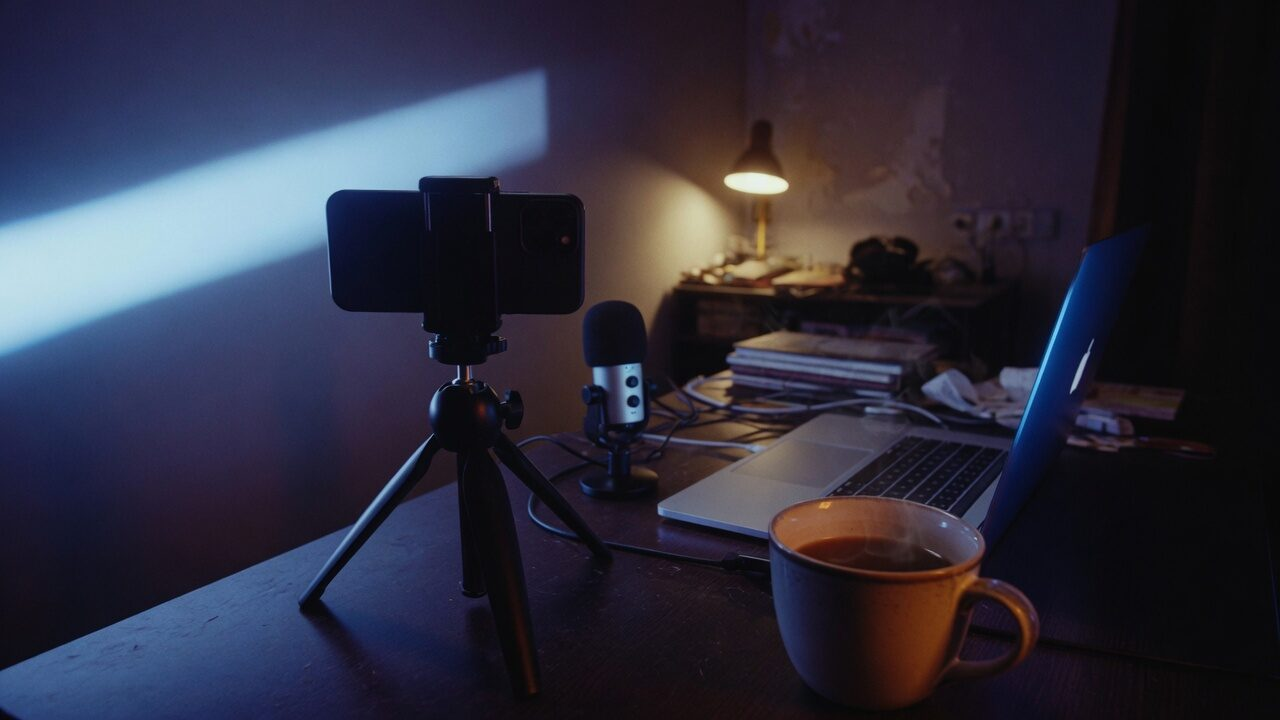
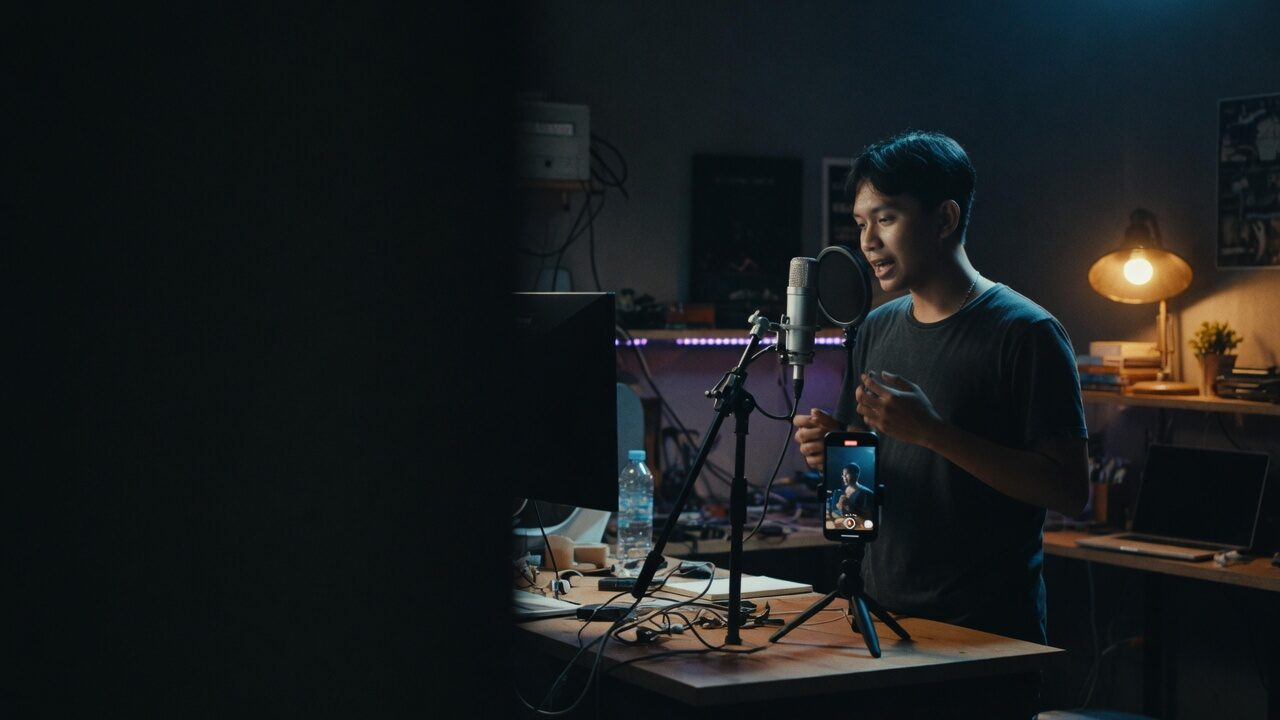
Light theme default with dark toggle; creator hero photo; stacked hero on phones

diff --git a/style.css b/style.css
@@ -1,19 +1,41 @@
 :root {
+  --bg: #fbfbfa;
+  --bg-rgb: 251, 251, 250;
+  --surface: #f0f0ee;
+  --line: #e2e2de;
+  --line-strong: #b8b8b3;
+  --ink: #1a1a1c;
+  --body: #3b3b3e;
+  --muted: #6b6b68;
+  --accent: #6fb6e2;
+  --accent-hover: #5aaadb;
+  --accent-ink: #0f1a22;
+  --accent-text: #2a72a8;
+  --plate-rgb: 19, 19, 21;
+  --radius: 6px;
+  --display: "Barlow Condensed", "Arial Narrow", "Helvetica Neue", Arial, sans-serif;
+  --text: system-ui, -apple-system, "Segoe UI", Roboto, "Helvetica Neue", Arial, sans-serif;
+  --ease-out: cubic-bezier(0.23, 1, 0.32, 1);
+  color-scheme: light;
+}
+:root[data-theme="dark"] {
   --bg: #131315;
+  --bg-rgb: 19, 19, 21;
   --surface: #1b1b1e;
   --line: #2c2c2e;
   --line-strong: #4a4a4e;
   --ink: #f2f2f0;
   --body: #d6d6d3;
   --muted: #9d9d99;
-  --accent: #6fb6e2;
   --accent-hover: #8cc5e9;
-  --accent-ink: #0f1a22;
-  --radius: 6px;
-  --display: "Barlow Condensed", "Arial Narrow", "Helvetica Neue", Arial, sans-serif;
-  --text: system-ui, -apple-system, "Segoe UI", Roboto, "Helvetica Neue", Arial, sans-serif;
-  --ease-out: cubic-bezier(0.23, 1, 0.32, 1);
+  --accent-text: #6fb6e2;
   color-scheme: dark;
+}
+/* photo plates stay dark in both themes */
+.hero, .banner {
+  --ink: #f2f2f0; --body: #d6d6d3; --muted: #a9a9a5; --line-strong: #6b6b6f;
+  background: rgb(var(--plate-rgb));
+  color: var(--ink);
 }
 
 * { box-sizing: border-box; }
@@ -26,7 +48,7 @@ body {
   font: 17px/1.55 var(--text);
 }
 img { max-width: 100%; display: block; }
-a { color: var(--accent); }
+a { color: var(--accent-text); }
 :focus-visible { outline: 2px solid var(--accent); outline-offset: 3px; }
 h1, h2 { font-family: var(--display); font-weight: 700; text-transform: uppercase; letter-spacing: 0; }
 h3 { font-size: 1.15rem; font-weight: 600; margin: 0 0 0.5rem; }
@@ -37,7 +59,7 @@ p { margin: 0 0 1rem; }
 /* nav */
 .nav {
   position: sticky; top: 0; z-index: 10;
-  background: rgba(19, 19, 21, 0.82);
+  background: rgba(var(--bg-rgb), 0.82);
   backdrop-filter: blur(14px) saturate(140%);
   -webkit-backdrop-filter: blur(14px) saturate(140%);
   border-bottom: 1px solid var(--line);
@@ -51,7 +73,9 @@ p { margin: 0 0 1rem; }
 .nav ul { display: flex; gap: 1.5rem; list-style: none; margin: 0; padding: 0; }
 .nav nav a { display: inline-block; padding: 0.75rem 0; color: var(--muted); text-decoration: none; font-size: 0.95rem; }
 .nav nav a[aria-current="page"] { color: var(--ink); }
-@media (hover: hover) and (pointer: fine) { .nav nav a:hover { color: var(--ink); } }
+.tema { background: none; border: 0; padding: 0.75rem 0; margin: 0; font: inherit; font-size: 0.95rem; color: var(--muted); cursor: pointer; }
+@media (hover: hover) and (pointer: fine) { .nav nav a:hover, .tema:hover { color: var(--ink); } }
+@media (max-width: 480px) { .brand { font-size: 1.25rem; } .nav ul { gap: 1rem; } .nav nav a, .tema { font-size: 0.9rem; } }
 
 /* buttons */
 .btn {
@@ -74,7 +98,7 @@ p { margin: 0 0 1rem; }
 .hero > img { position: absolute; inset: 0; width: 100%; height: 100%; object-fit: cover; object-position: center; }
 .hero::after {
   content: ""; position: absolute; inset: 0;
-  background: linear-gradient(to top, rgba(19,19,21,0.97) 0%, rgba(19,19,21,0.72) 40%, rgba(19,19,21,0.2) 100%);
+  background: linear-gradient(to top, rgba(var(--plate-rgb),0.97) 0%, rgba(var(--plate-rgb),0.72) 40%, rgba(var(--plate-rgb),0.2) 100%);
 }
 .hero .wrap { position: relative; z-index: 1; width: 100%; padding-top: 5rem; padding-bottom: 3.5rem; }
 .hero .strip { color: var(--muted); font-size: 0.95rem; margin: 0 0 1rem; }
@@ -84,7 +108,17 @@ p { margin: 0 0 1rem; }
 }
 .hero .sub { font-size: 1.15rem; color: var(--body); max-width: 36rem; margin: 0 0 1.75rem; }
 .cta { display: flex; flex-wrap: wrap; gap: 0.75rem; margin: 0; }
-@media (max-width: 700px) { .hero h1 br { display: none; } .hero { min-height: min(78vh, 640px); min-height: min(78dvh, 640px); } }
+@media (max-width: 700px) {
+  /* phones: photo above the text so the person is never under the headline */
+  .hero { display: block; min-height: 0; }
+  .hero > img { position: static; width: 100%; height: auto; aspect-ratio: 3 / 2; object-position: 70% 30%; }
+  .hero::after { display: none; }
+  .hero .wrap { padding-top: 1.75rem; padding-bottom: 2.5rem; }
+  .hero .strip { margin-bottom: 0.75rem; }
+  .hero h1 { font-size: 2.5rem; }
+  .hero h1 br { display: none; }
+  .hero .sub { font-size: 1.05rem; margin-bottom: 1.25rem; }
+}
 
 /* sections */
 main > section { padding: 4rem 0; border-top: 1px solid var(--line); }
@@ -104,7 +138,7 @@ main > section h2 { font-size: clamp(2rem, 4vw, 2.75rem); line-height: 1; margin
 .kartu h3 { margin: 0.9rem 0 0.2rem; line-height: 1.25; }
 .kartu p { margin: 0; color: var(--muted); font-size: 0.9rem; }
 .kartu [data-status]:not(:empty)::before { content: "· "; }
-.kartu [data-status] { color: var(--accent); }
+.kartu [data-status] { color: var(--accent-text); }
 @media (max-width: 900px) {
   .katalog { grid-template-columns: repeat(2, 1fr); gap: 1.5rem 0.75rem; }
   .kartu h3 { font-size: 1rem; margin-top: 0.6rem; }
@@ -147,7 +181,7 @@ footer a:last-child { margin-right: 0; }
 .daftar .img { display: block; aspect-ratio: 3 / 4; border-radius: var(--radius); overflow: hidden; background: var(--surface); }
 .daftar .img img { width: 100%; height: 100%; object-fit: cover; }
 .daftar .meta { color: var(--muted); font-size: 0.9rem; margin: 0 0 0.35rem; }
-.daftar .status { color: var(--accent); }
+.daftar .status { color: var(--accent-text); }
 .daftar .status:not(:empty)::before { content: "· "; }
 .daftar h2 { font-size: 1.85rem; line-height: 1; margin: 0 0 0.6rem; }
 .daftar h2 a { color: var(--ink); text-decoration: none; }
@@ -163,7 +197,7 @@ footer a:last-child { margin-right: 0; }
 .banner > img { position: absolute; inset: 0; width: 100%; height: 100%; object-fit: cover; object-position: center 45%; }
 .banner::after {
   content: ""; position: absolute; inset: 0;
-  background: linear-gradient(to top, rgba(19,19,21,1) 0%, rgba(19,19,21,0.7) 45%, rgba(19,19,21,0.25) 100%);
+  background: linear-gradient(to top, rgba(var(--plate-rgb),1) 0%, rgba(var(--plate-rgb),0.7) 45%, rgba(var(--plate-rgb),0.25) 100%);
 }
 .banner .wrap { position: relative; z-index: 1; width: 100%; padding-top: 5rem; padding-bottom: 2.5rem; }
 .crumb { color: var(--muted); font-size: 0.95rem; margin: 0 0 0.75rem; }
@@ -215,7 +249,7 @@ footer a:last-child { margin-right: 0; }
   .banner > img { left: auto; right: 0; width: 62%; object-position: center 40%; }
   .banner::after {
     background:
-      linear-gradient(to right, rgba(19,19,21,1) 30%, rgba(19,19,21,0.4) 60%, rgba(19,19,21,0.1) 100%),
-      linear-gradient(to top, rgba(19,19,21,1) 0%, rgba(19,19,21,0.55) 35%, rgba(19,19,21,0) 100%);
+      linear-gradient(to right, rgba(var(--plate-rgb),1) 30%, rgba(var(--plate-rgb),0.4) 60%, rgba(var(--plate-rgb),0.1) 100%),
+      linear-gradient(to top, rgba(var(--plate-rgb),1) 0%, rgba(var(--plate-rgb),0.55) 35%, rgba(var(--plate-rgb),0) 100%);
   }
 }

diff --git a/modul/1.html b/modul/1.html
@@ -5,7 +5,8 @@
 <meta name="viewport" content="width=device-width, initial-scale=1, viewport-fit=cover">
 <title>Modul 1: Kenali audiens sebelum bikin konten, Kelas Kreator</title>
 <meta name="description" content="Konten yang bagus untuk semua orang biasanya tidak dibutuhkan siapa pun. Modul ini membantumu menjawab satu pertanyaan: siapa yang sebenarnya menonton, dan kenapa.">
-<meta name="theme-color" content="#131315">
+<meta name="theme-color" content="#fbfbfa">
+<script>try{if(localStorage.getItem("kelas-kreator-tema")==="gelap"){document.documentElement.setAttribute("data-theme","dark");document.querySelector('meta[name="theme-color"]').content="#131315"}}catch(e){}</script>
 <link rel="canonical" href="https://wolfurx.github.io/kelas-kreator/modul/1.html">
 <meta property="og:type" content="website">
 <meta property="og:site_name" content="Kelas Kreator">
@@ -30,6 +31,7 @@
 <nav aria-label="Utama"><ul>
 <li><a href="../kurikulum.html" aria-current="page">Kurikulum</a></li>
 <li><a href="../index.html#tentang">Tentang</a></li>
+<li><button type="button" class="tema" data-tema aria-pressed="false" aria-label="Ganti ke mode gelap">Gelap</button></li>
 </ul></nav>
 </div>
 </header>

diff --git a/modul/5.html b/modul/5.html
@@ -5,7 +5,8 @@
 <meta name="viewport" content="width=device-width, initial-scale=1, viewport-fit=cover">
 <title>Modul 5: Membaca data, bukan sekadar angka, Kelas Kreator</title>
 <meta name="description" content="Angka tidak bercerita sendiri. Modul ini melatihmu bertanya pada data dengan pertanyaan yang tepat, supaya keputusan berikutnya lebih baik dari tebakan.">
-<meta name="theme-color" content="#131315">
+<meta name="theme-color" content="#fbfbfa">
+<script>try{if(localStorage.getItem("kelas-kreator-tema")==="gelap"){document.documentElement.setAttribute("data-theme","dark");document.querySelector('meta[name="theme-color"]').content="#131315"}}catch(e){}</script>
 <link rel="canonical" href="https://wolfurx.github.io/kelas-kreator/modul/5.html">
 <meta property="og:type" content="website">
 <meta property="og:site_name" content="Kelas Kreator">
@@ -30,6 +31,7 @@
 <nav aria-label="Utama"><ul>
 <li><a href="../kurikulum.html" aria-current="page">Kurikulum</a></li>
 <li><a href="../index.html#tentang">Tentang</a></li>
+<li><button type="button" class="tema" data-tema aria-pressed="false" aria-label="Ganti ke mode gelap">Gelap</button></li>
 </ul></nav>
 </div>
 </header>

diff --git a/modul/3.html b/modul/3.html
@@ -5,7 +5,8 @@
 <meta name="viewport" content="width=device-width, initial-scale=1, viewport-fit=cover">
 <title>Modul 3: Hook, format, dan struktur, Kelas Kreator</title>
 <meta name="description" content="Ide bagus yang ditinggalkan di detik kedua tidak pernah dinilai. Modul ini membahas cara membuat orang tetap menonton sampai pesanmu sampai.">
-<meta name="theme-color" content="#131315">
+<meta name="theme-color" content="#fbfbfa">
+<script>try{if(localStorage.getItem("kelas-kreator-tema")==="gelap"){document.documentElement.setAttribute("data-theme","dark");document.querySelector('meta[name="theme-color"]').content="#131315"}}catch(e){}</script>
 <link rel="canonical" href="https://wolfurx.github.io/kelas-kreator/modul/3.html">
 <meta property="og:type" content="website">
 <meta property="og:site_name" content="Kelas Kreator">
@@ -30,6 +31,7 @@
 <nav aria-label="Utama"><ul>
 <li><a href="../kurikulum.html" aria-current="page">Kurikulum</a></li>
 <li><a href="../index.html#tentang">Tentang</a></li>
+<li><button type="button" class="tema" data-tema aria-pressed="false" aria-label="Ganti ke mode gelap">Gelap</button></li>
 </ul></nav>
 </div>
 </header>

diff --git a/modul/4.html b/modul/4.html
@@ -5,7 +5,8 @@
 <meta name="viewport" content="width=device-width, initial-scale=1, viewport-fit=cover">
 <title>Modul 4: Kalender dan ritme produksi, Kelas Kreator</title>
 <meta name="description" content="Kreator jarang berhenti karena kehabisan ide. Mereka berhenti karena kelelahan. Modul ini tentang ritme yang bisa kamu jaga selama setahun.">
-<meta name="theme-color" content="#131315">
+<meta name="theme-color" content="#fbfbfa">
+<script>try{if(localStorage.getItem("kelas-kreator-tema")==="gelap"){document.documentElement.setAttribute("data-theme","dark");document.querySelector('meta[name="theme-color"]').content="#131315"}}catch(e){}</script>
 <link rel="canonical" href="https://wolfurx.github.io/kelas-kreator/modul/4.html">
 <meta property="og:type" content="website">
 <meta property="og:site_name" content="Kelas Kreator">
@@ -30,6 +31,7 @@
 <nav aria-label="Utama"><ul>
 <li><a href="../kurikulum.html" aria-current="page">Kurikulum</a></li>
 <li><a href="../index.html#tentang">Tentang</a></li>
+<li><button type="button" class="tema" data-tema aria-pressed="false" aria-label="Ganti ke mode gelap">Gelap</button></li>
 </ul></nav>
 </div>
 </header>

diff --git a/modul/6.html b/modul/6.html
@@ -5,7 +5,8 @@
 <meta name="viewport" content="width=device-width, initial-scale=1, viewport-fit=cover">
 <title>Modul 6: Monetisasi dan kerja sama brand, Kelas Kreator</title>
 <meta name="description" content="Pemasukan kreator jarang datang dari satu pintu. Modul ini memetakan pintu-pintunya dan cara berjualan tanpa kehilangan penonton.">
-<meta name="theme-color" content="#131315">
+<meta name="theme-color" content="#fbfbfa">
+<script>try{if(localStorage.getItem("kelas-kreator-tema")==="gelap"){document.documentElement.setAttribute("data-theme","dark");document.querySelector('meta[name="theme-color"]').content="#131315"}}catch(e){}</script>
 <link rel="canonical" href="https://wolfurx.github.io/kelas-kreator/modul/6.html">
 <meta property="og:type" content="website">
 <meta property="og:site_name" content="Kelas Kreator">
@@ -30,6 +31,7 @@
 <nav aria-label="Utama"><ul>
 <li><a href="../kurikulum.html" aria-current="page">Kurikulum</a></li>
 <li><a href="../index.html#tentang">Tentang</a></li>
+<li><button type="button" class="tema" data-tema aria-pressed="false" aria-label="Ganti ke mode gelap">Gelap</button></li>
 </ul></nav>
 </div>
 </header>

diff --git a/modul/2.html b/modul/2.html
@@ -5,7 +5,8 @@
 <meta name="viewport" content="width=device-width, initial-scale=1, viewport-fit=cover">
 <title>Modul 2: Posisi dan pilar konten, Kelas Kreator</title>
 <meta name="description" content="Penonton memutuskan mengikuti atau tidak dalam satu kali gulir. Modul ini tentang membuat keputusan itu mudah bagi mereka.">
-<meta name="theme-color" content="#131315">
+<meta name="theme-color" content="#fbfbfa">
+<script>try{if(localStorage.getItem("kelas-kreator-tema")==="gelap"){document.documentElement.setAttribute("data-theme","dark");document.querySelector('meta[name="theme-color"]').content="#131315"}}catch(e){}</script>
 <link rel="canonical" href="https://wolfurx.github.io/kelas-kreator/modul/2.html">
 <meta property="og:type" content="website">
 <meta property="og:site_name" content="Kelas Kreator">
@@ -30,6 +31,7 @@
 <nav aria-label="Utama"><ul>
 <li><a href="../kurikulum.html" aria-current="page">Kurikulum</a></li>
 <li><a href="../index.html#tentang">Tentang</a></li>
+<li><button type="button" class="tema" data-tema aria-pressed="false" aria-label="Ganti ke mode gelap">Gelap</button></li>
 </ul></nav>
 </div>
 </header>

diff --git a/progress.js b/progress.js
@@ -31,6 +31,27 @@
     }
   }
 
+  var TEMA = "kelas-kreator-tema";
+  var tombol = document.querySelector("[data-tema]");
+  if (tombol) {
+    var root = document.documentElement;
+    var meta = document.querySelector('meta[name="theme-color"]');
+    var gambar = function () {
+      var gelap = root.getAttribute("data-theme") === "dark";
+      tombol.textContent = gelap ? "Terang" : "Gelap";
+      tombol.setAttribute("aria-pressed", gelap ? "true" : "false");
+      tombol.setAttribute("aria-label", gelap ? "Ganti ke mode terang" : "Ganti ke mode gelap");
+      if (meta) meta.content = gelap ? "#131315" : "#fbfbfa";
+    };
+    tombol.addEventListener("click", function () {
+      var gelap = root.getAttribute("data-theme") === "dark";
+      if (gelap) root.removeAttribute("data-theme"); else root.setAttribute("data-theme", "dark");
+      try { localStorage.setItem(TEMA, gelap ? "terang" : "gelap"); } catch (e) {}
+      gambar();
+    });
+    gambar();
+  }
+
   var cta = document.querySelector("[data-lanjut]");
   if (cta && done.length) {
     for (var n = 1; n <= 6; n++) {

diff --git a/kurikulum.html b/kurikulum.html
@@ -5,7 +5,8 @@
 <meta name="viewport" content="width=device-width, initial-scale=1, viewport-fit=cover">
 <title>Kurikulum, Kelas Kreator</title>
 <meta name="description" content="Enam modul dan 23 pelajaran strategi konten untuk kreator Indonesia.">
-<meta name="theme-color" content="#131315">
+<meta name="theme-color" content="#fbfbfa">
+<script>try{if(localStorage.getItem("kelas-kreator-tema")==="gelap"){document.documentElement.setAttribute("data-theme","dark");document.querySelector('meta[name="theme-color"]').content="#131315"}}catch(e){}</script>
 <link rel="canonical" href="https://wolfurx.github.io/kelas-kreator/kurikulum.html">
 <meta property="og:type" content="website">
 <meta property="og:site_name" content="Kelas Kreator">
@@ -30,6 +31,7 @@
 <nav aria-label="Utama"><ul>
 <li><a href="kurikulum.html" aria-current="page">Kurikulum</a></li>
 <li><a href="index.html#tentang">Tentang</a></li>
+<li><button type="button" class="tema" data-tema aria-pressed="false" aria-label="Ganti ke mode gelap">Gelap</button></li>
 </ul></nav>
 </div>
 </header>

diff --git a/index.html b/index.html
@@ -5,7 +5,8 @@
 <meta name="viewport" content="width=device-width, initial-scale=1, viewport-fit=cover">
 <title>Kelas Kreator</title>
 <meta name="description" content="Kelas daring gratis untuk kreator Indonesia: strategi konten dari data, disusun Pantau360 bersama Ekraf.">
-<meta name="theme-color" content="#131315">
+<meta name="theme-color" content="#fbfbfa">
+<script>try{if(localStorage.getItem("kelas-kreator-tema")==="gelap"){document.documentElement.setAttribute("data-theme","dark");document.querySelector('meta[name="theme-color"]').content="#131315"}}catch(e){}</script>
 <link rel="canonical" href="https://wolfurx.github.io/kelas-kreator/">
 <meta property="og:type" content="website">
 <meta property="og:site_name" content="Kelas Kreator">
@@ -30,6 +31,7 @@
 <nav aria-label="Utama"><ul>
 <li><a href="kurikulum.html">Kurikulum</a></li>
 <li><a href="index.html#tentang">Tentang</a></li>
+<li><button type="button" class="tema" data-tema aria-pressed="false" aria-label="Ganti ke mode gelap">Gelap</button></li>
 </ul></nav>
 </div>
 </header>
